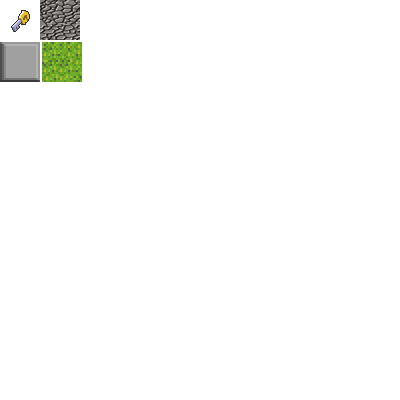
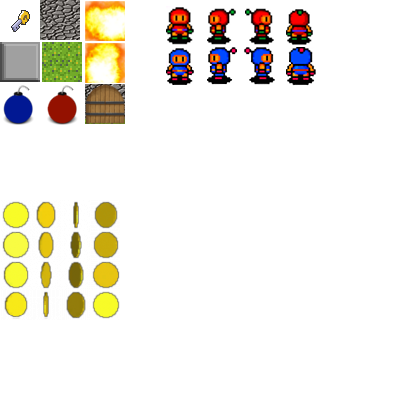
lots of stuff. players, coins, door.

diff --git a/lib/Map.js b/lib/Map.js
@@ -28,6 +28,27 @@ function Tile(props, i, j) {
     };
 };
 
+function Coin(imgs, i, j) {
+    this.props = {
+        size: 30,
+        //img source, clipping coordinates (x,y)
+        imgs: imgs,
+        type: "coin",
+        i : i,
+        j : j,
+    };
+    this.drawCount = 0;
+    this.draw = function(x,y,context) {
+        var num = this.drawCount % 16;
+        var img = this.props.imgs[num];
+        context.save();
+        context.drawImage(img[0],img[1], img[2],
+                          this.props.size, this.props.size,x+5,y+5,
+                          this.props.size, this.props.size);
+        context.restore();
+    };
+};
+
 
 
 //each cell is 40x40
@@ -35,9 +56,9 @@ function Tile(props, i, j) {
 // CONTROLLER/MODEL
 function Map(numPlayer,props) {
     // make the players
-    this.player1 = new Player("p1");
+    this.player1 = new Player("p1", props.tiles);
     if(numPlayer === 2) {
-            this.player2 = new Player("p2");
+            this.player2 = new Player("p2", props.tiles);
         }
     var that = this;
     this.mkBlock = {
@@ -62,7 +83,8 @@ function Map(numPlayer,props) {
     copyProperties(this.props, props);
     //entire map
     this.blocks = [];
-
+    //where are the coins
+    this.coins = [];
     //individual tile images from the tile Image
     this.tileData = {grass: { img: [this.props.tiles, 42,42], type: "grass"},
                      block: { img: [this.props.tiles, 40, 0], type: "block"},
@@ -71,6 +93,30 @@ function Map(numPlayer,props) {
     this.itemData = {key: { img: [this.props.tiles, 0, 0], type: "key" },
                      door: { img: [this.props.tiles, 85, 84], type: "door" },
                     };
+    this.spawnCoin = function(i,j) {
+        var imgs = [
+            [this.props.tiles, 0, 200],
+            [this.props.tiles, 0, 230],
+            [this.props.tiles, 0, 260],
+            [this.props.tiles, 0, 290],
+            [this.props.tiles, 30, 200],
+            [this.props.tiles, 30, 230],
+            [this.props.tiles, 30, 260],
+            [this.props.tiles, 30, 290],
+            [this.props.tiles, 60, 200],
+            [this.props.tiles, 60, 230],
+            [this.props.tiles, 60, 260],
+            [this.props.tiles, 60, 290],
+            [this.props.tiles, 90, 200],
+            [this.props.tiles, 90, 230],
+            [this.props.tiles, 90, 260],
+            [this.props.tiles, 90, 290]
+        ];
+        var coin = new Coin(imgs,i,j);
+        console.log("making coin");
+        this.coins.push({i:i, j:j});
+        return coin;
+    };
 
     this.initialize = function() {
         var block;
@@ -99,18 +145,28 @@ function Map(numPlayer,props) {
             this.blocks.push(col);
         }
 
-        //populate with blocks and coins (which are keys right now)
+        //populate with blocks and coins and key(s)
         this.blocks.forEach( function (col) {
             col.forEach( function (elem) {
                 if(elem.props.type === "grass" && Math.random() < that.props.blockGen) {
                     if(Math.random() < game_configs["coinGen"]) {
-                        var key =  new Tile(that.itemData['key'], elem.props.i, elem.props.j);
+                        var key =  that.spawnCoin(elem.props.i, elem.props.j);
                         elem.above.push( key );
                     }
                     elem.above.push( that.mkBlock['block'](that, elem.props.i, elem.props.j));
                 }
             });
         });
+
+        var doori = Math.floor(Math.random()*100) % ( inBlocks(game_configs["mapWidth"]) - 3) + 1
+        var doorj = Math.floor(Math.random()*10) % ( inBlocks(game_configs["mapHeight"]) - 13) + 10
+        if(this.blocks[doori][doorj].props.type === "wall") {
+            this.blocks[doori][doorj-1] = new Tile(this.itemData["door"], doori, doorj-1);
+            this.blocks[doori][doorj-1].above.push(this.mkBlock['block'](that, doori, doorj-1));
+        } else {
+            this.blocks[doori][doorj] = new Tile(this.itemData["door"], doori, doorj);
+            this.blocks[doori][doorj].above.push(this.mkBlock['block'](that, doori, doorj));
+        }
         // carve out blocks of p1 starting positions
         this.blocks[1][1].above = [];
         this.blocks[2][1].above = [];
@@ -206,7 +262,8 @@ function Map(numPlayer,props) {
         var p2_newPos = p2_Pos;
         var bomb_down = false,
             use_item = false,
-            waterFire = false;
+            waterFire = false,
+            coins_visible = false;
         //there are exploded bombs on the board
         //fire to be removed
         if (this.bombPos.bx.length > 0) {
@@ -214,20 +271,57 @@ function Map(numPlayer,props) {
             this.waterAllFire();
             window.setTimeout(function() {},10000);
         }
+
+        for(var a = 0; a < game.map.coins.length; a++) {
+            var p = game.map.coins[a];
+            var aa = getLast(game.map.blocks[p.i][p.j].above);
+            if (aa.success === true && aa.value.props.type === "coin") {
+                coins_visible = true;
+                break;
+            }
+
+        }
+
+        function collectItem(playerPos,player) {
+            var result = getLast(game.map.blocks[playerPos.i][playerPos.j].above);
+            if( result["success"] && result.value.props.type === "coin") {
+                game.map.blocks[playerPos.i][playerPos.j].above.pop();
+                if(player === 1) game.map.player1.objects.coinCount++;
+                if(player === 2) game.map.player1.objects.coinCount++;
+            }
+        };
+
+        function coinsAnimate() {
+            game.map.coins.forEach( function(obj) {
+                var result = getLast(game.map.blocks[obj.i][obj.j].above);
+                if (result["success"] && result.value.props.type === "coin") {
+                    result.value.drawCount++;
+                }
+            });
+        }
+
         var len = game.keyQueue.length;
         for(var i = 0; i < len; i++) {
             switch(game.keyQueue[i]) {
                 case p1_controls.up:
                     p1_newPos = checkBounds(p1_Pos.i,p1_Pos.j, 0, -1);
+                    p1_newPos.dir = 3;
+                    collectItem(p1_newPos, 1);
                 break;
                 case p1_controls.left:
                     p1_newPos = checkBounds(p1_Pos.i,p1_Pos.j, -1, 0);
+                    p1_newPos.dir = 1;
+                    collectItem(p1_newPos, 1);
                 break;
                 case p1_controls.down:
                     p1_newPos = checkBounds(p1_Pos.i,p1_Pos.j, 0, 1);
+                    p1_newPos.dir = 0;
+                    collectItem(p1_newPos, 1);
                 break;
                 case p1_controls.right:
                     p1_newPos = checkBounds(p1_Pos.i,p1_Pos.j, 1, 0);
+                    p1_newPos.dir = 2;
+                    collectItem(p1_newPos, 1);
                 break;
                 case p1_controls.bomb:
                     bomb_down = true;
@@ -243,15 +337,23 @@ function Map(numPlayer,props) {
                 //player 2
                 case p2_controls.up:
                     p2_newPos = checkBounds(p2_Pos.i, p2_Pos.j, 0, -1);
+                    p2_newPos = 3;
+                    collectItem(p2_newPos, 2);
                 break;
                 case p2_controls.left:
                     p2_newPos = checkBounds(p2_Pos.i, p2_Pos.j, -1, 0);
+                    p2_newPos = 1;
+                    collectItem(p2_newPos, 2);
                 break;
                 case p2_controls.down:
                     p2_newPos = checkBounds(p2_Pos.i, p2_Pos.j, 0, 1);
+                    p2_newPos = 0;
+                    collectItem(p2_newPos, 2);
                 break;
                 case p2_controls.right:
                     p2_newPos = checkBounds(p2_Pos.i, p2_Pos.j, 1, 0);
+                    p2_newPos = 3;
+                    collectItem(p2_newPos, 2);
                 break;
                 case p2_controls.bomb:
                     bomb_down = true;
@@ -269,15 +371,28 @@ function Map(numPlayer,props) {
             }
         }
         game.keyQueue = game.keyQueue.slice(len);
+
+        if(game.map.blocks[p1_newPos.i][p1_newPos.j].props.type === "door" && this.player1.objects.keyCount>0) {
+            console.log("GAME OVER");
+            game.over = "player1";
+            return true;
+        } else if(game.map.blocks[p2_newPos.i][p2_newPos.j].props.type === "door" && this.player2.objects.keyCount>0) {
+            console.log("GAME OVER!!");
+            game.over = "player2";
+            return true;
+
+
+}
         if(p1_newPos.i === p1_Pos.i && p1_newPos.j === p1_Pos.j &&
            p2_newPos.i === p2_Pos.i && p2_newPos.j === p2_Pos.j &&
            bomb_down === false && use_item === false &&
-           waterFire === false) {
+           waterFire === false && coins_visible === false) {
             console.log('no update');
             return false;
         } else {
             copyProperties(this.player1.pos, p1_newPos);
             copyProperties(this.player2.pos, p2_newPos);
+            coinsAnimate();
             console.log("update!, p1: "+ this.player1.pos.i + ',' + this.player1.pos.j +
                         " p2: "+ this.player2.pos.i + "," + this.player2.pos.j);
             return true;

diff --git a/lib/View.js b/lib/View.js
@@ -18,14 +18,38 @@ function View(canvas, props) {
         //entire map
         var mapEndi = inBlocks(game_configs["mapWidth"]);
         var mapEndj = inBlocks(game_configs["mapHeight"]);
+        var playerPos;
 
+        function getPlayerPos(view) {
+            if(view.props.player === 1) { return map.player1.pos; }
+            else if(view.props.player === 2) { return map.player2.pos; }
+            else { return null; }
+        }
 
-        if(mapEndi - this.props.viewLeft < this.props.viewWidth) {
-            this.props.viewLeft = mapEndi - this.props.viewWidth;
+        playerPos = getPlayerPos(this);
+        if(playerPos) {
+            centerI = Math.floor(this.props.viewHeight/2);
+            centerJ = Math.floor(this.props.viewWidth/2);
+            if(playerPos.i - centerI < 0) {
+                this.props.viewLeft = 0;
+            } else {
+                this.props.viewLeft = playerPos.i - centerI;
+            }
+            if (mapEndi - this.props.viewLeft < this.props.viewWidth) {
+                this.props.viewLeft = mapEndi - this.props.viewWidth;
+            }
+            //now for J
+            if(playerPos.j - centerJ < 0) {
+                this.props.viewTop = 0;
+            } else {
+                this.props.viewTop = playerPos.j - centerJ;
+            }
+            if (mapEndj - this.props.viewTop < this.props.viewHeight) {
+                this.props.viewTop = mapEndj - this.props.viewHeight;
+            }
+            console.log(centerI, centerJ);
         }
-        if(mapEndj - this.props.viewTop < this.props.viewHeight) {
-            this.props.viewTop = mapEndj - this.props.viewHeight;
-        }
+
 
 
         for(var i = this.props.viewLeft;
@@ -39,7 +63,12 @@ function View(canvas, props) {
 
         //draw the players
 
-        if(this.props.player === 1) {
+        map.player1.draw(this.context, {viewLeft: this.props.viewLeft,
+                                        viewTop: this.props.viewTop});
+        map.player2.draw(this.context, {viewLeft: this.props.viewLeft,
+                                        viewTop: this.props.viewTop});
+
+/*        if(this.props.player === 1) {
             //console.log(map.player1.pos);
             map.player1.draw(this.context, {viewLeft: this.props.viewLeft,
                                             viewTop: this.props.viewTop});
@@ -52,7 +81,7 @@ function View(canvas, props) {
                                             viewTop: this.props.viewTop});
             map.player2.draw(this.context, {viewLeft: this.props.viewLeft,
                                             viewTop: this.props.viewTop});
-        }
+        }*/
 
     };
 

diff --git a/lib/Player.js b/lib/Player.js
@@ -2,22 +2,36 @@
 //Player 2 = blue by default
 // pos, color, images, lives
 // dictionary of objects.
-function Player(player) {
+function Player(player, tiles) {
     if (player === "p1" || (player === undefined)) {
         //by default atleast a single player (start position)
         this.pos = game_configs["p1Start"];
         this.color = game_configs["p1Color"];
         this.images = p1_images;
+        this.spriteData = [
+            [tiles, 160, 5],
+            [tiles, 200, 5],
+            [tiles, 240, 5],
+            [tiles, 280, 5]
+        ];
     }
     else {
         this.pos = game_configs["p2Start"];
         this.color = game_configs["p2Color"];
         this.images = p2_images;
+        this.spriteData = [
+            [tiles, 160, 46],
+            [tiles, 200, 45],
+            [tiles, 240, 45],
+            [tiles, 280, 45]
+        ];
     }
+
 
     this.lives = 3;
     this.objects = {
         bombCount: 0,
+        coinCount: 0,
         keyCount: 0,
         hasExitKey: false,
         blocks: 0,
@@ -85,9 +99,15 @@ function Player(player) {
     //draw the Player
     this.draw = function (context, viewport) {
        // console.log(this.pos);
+        size = game_configs["tileSize"];
+        img = this.spriteData[this.pos.dir];
         context.save();
         context.fillStyle = this.color;
-        context.fillRect(inPixels(this.pos.i-viewport.viewLeft),inPixels(this.pos.j-viewport.viewTop),10,10);
+        context.drawImage(img[0],img[1], img[2],
+                          size, size,
+                          inPixels(this.pos.i-viewport.viewLeft),
+                          inPixels(this.pos.j-viewport.viewTop),
+                          size, size);
         context.restore();
     };
 };

diff --git a/lib/configs.js b/lib/configs.js
@@ -6,8 +6,8 @@ var game_configs = { tileSize: 40,
                      p2Canvas: "p2Canvas", //name of player 2 canvas
                      p1Color: "red",
                      p2Color: "blue",
-                     p1Start: {i: 1, j:1},
-                     p2Start: {i: 13, j:1},
+                     p1Start: {i: 1, j:1, dir:0},
+                     p2Start: {i: 13, j:1, dir: 0},
                      mapWidth: 920,
                      mapHeight: 920,
                      blockGen: 0.8,

diff --git a/lib/Game.js b/lib/Game.js
@@ -18,7 +18,7 @@ function Game(numPlayer, tileImg, options) {
         that.map.initialize();
         //create the map model,
         //create the players
-        
+
         that.view1 = view1;
         that.view2 = view2;
         //first draw
